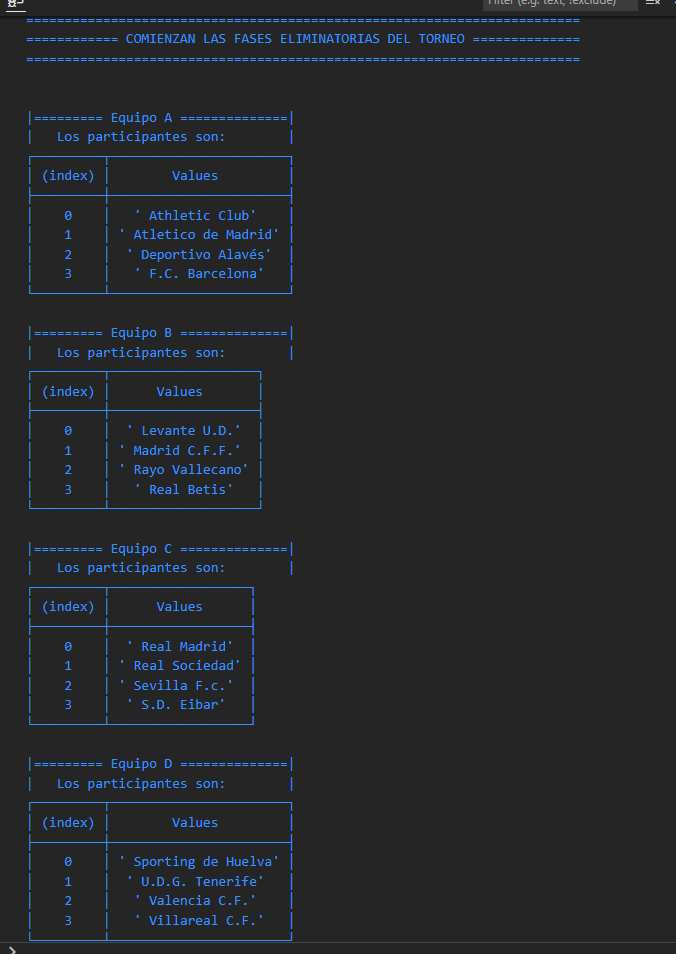
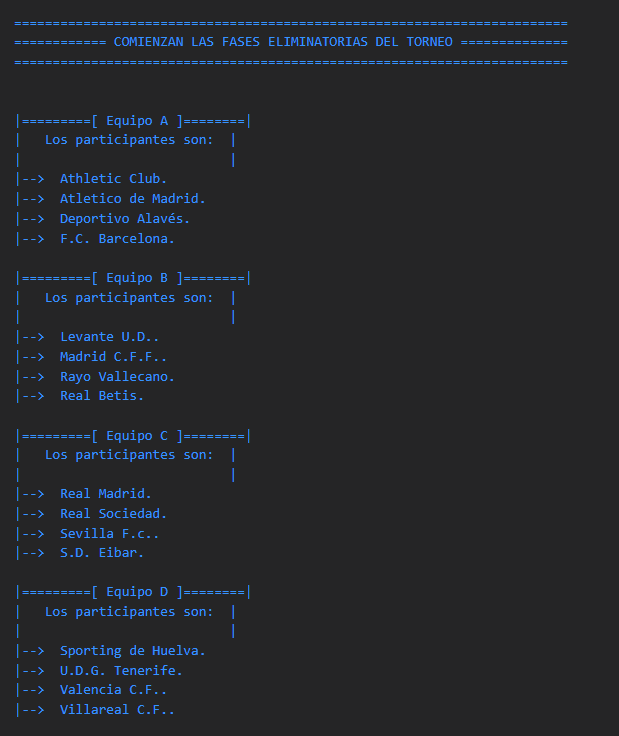
se ajustan los console log y se editan detalles del readme

Changed region(s): [[0.0, 0.0, 0.9208, 1.0]]

diff --git a/Index.js b/Index.js
@@ -6,26 +6,26 @@ import playOff, { } from "./fooligafem.js";
 const selectChamp = new playOff("A", equiposA);
 
 console.log(`
-|=========== Selección del grupo A ===========|
+|=========== Selección del Grupo A ===========|
 |`)
 let champA = selectChamp.playOffinit(equiposA)
 let subA = selectChamp.playOffinitS(equiposA)
 
 console.log(`|--> Campeon: "${champA}" :: Sub-Campeon: "${subA}"
 |
-|=========== Selección del grupo B ===========|
+|=========== Selección del Grupo B ===========|
 | `)
 let champB = selectChamp.playOffinit(equiposB)
 let subB = selectChamp.playOffinitS(equiposB)
 console.log(`|--> Campeon: "${champB}" :: Sub-Campeon: "${subB}"
 |
-|=========== Selección del grupo C ===========|
+|=========== Selección del Grupo C ===========|
 |`)
 let champC = selectChamp.playOffinit(equiposC)
 let subC = selectChamp.playOffinitS(equiposC)
 console.log(`|--> Campeon: "${champC}" :: Sub-Campeon: "${subC}"
 |
-|=========== Selección del grupo D ===========|
+|=========== Selección del Grupo D ===========|
 |`)
 let champD = selectChamp.playOffinit(equiposD)
 let subD = selectChamp.playOffinitS(equiposD)
@@ -169,14 +169,14 @@ console.log('')
 
   if ( golesA > golesB ) {
     console.log('')
-    console.log(`    =============================================================
-    ${sCamp1} Campeona de la EURO WOMEN'S CUP
-    =============================================================`)
+    console.log(`     =============================================================
+          <|${sCamp1}|> Campeona de la EURO WOMEN'S CUP
+     =============================================================`)
   } else {
     console.log('')
-    console.log(`    =============================================================
-    ${sCamp2} Campeona de la EURO WOMEN'S CUP
-    =============================================================`)
+    console.log(`     =============================================================
+      <|${sCamp2}|> Campeona de la EURO WOMEN'S CUP
+     =============================================================`)
     
   }
 console.log('')

diff --git a/equipos.js b/equipos.js
@@ -14,28 +14,28 @@ console.log(`
 console.log('')
 
 console.log(`
-|=========[ Equipo A ]========|
+|=========[ Grupo A ]========|
 |   Los participantes son:  |
 |                           |`)
 
 equiposA.forEach(equipos => console.log(`|--> ${equipos}.`));
 
 console.log(`
-|=========[ Equipo B ]========|
+|=========[ Grupo B ]========|
 |   Los participantes son:  |
 |                           |`)
 equiposB.forEach(equipos => console.log(`|--> ${equipos}.`));
 
 
 console.log(`
-|=========[ Equipo C ]========|
+|=========[ Grupo C ]========|
 |   Los participantes son:  |
 |                           |`)
 equiposC.forEach(equipos => console.log(`|--> ${equipos}.`));
 
 
 console.log(`
-|=========[ Equipo D ]========|
+|=========[ Grupo D ]========|
 |   Los participantes son:  |
 |                           |`)
 equiposD.forEach(equipos => console.log(`|--> ${equipos}.`));
